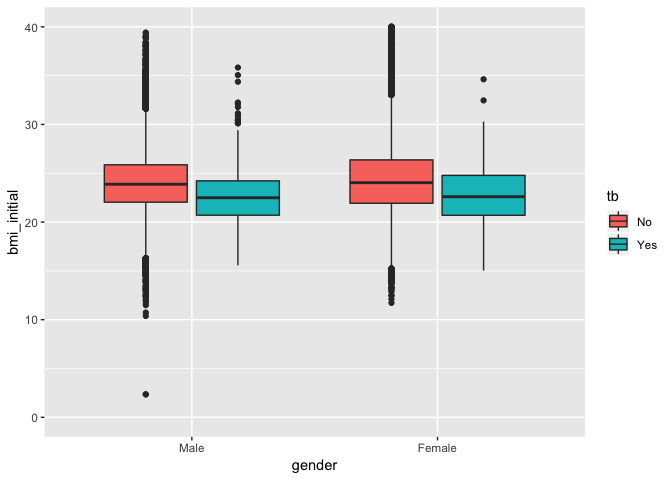
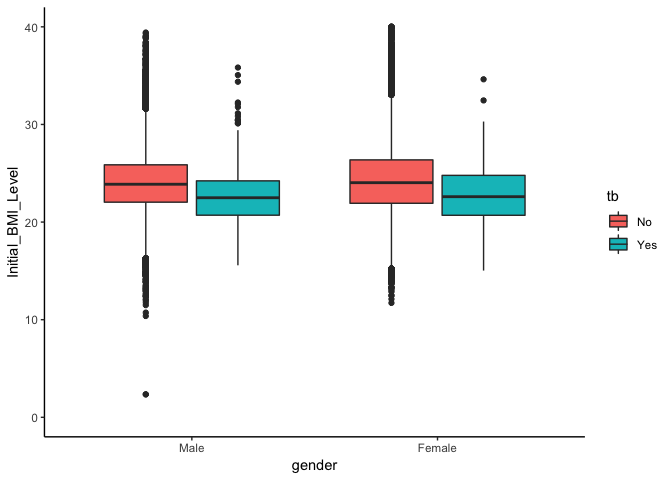
graphs theme standardized

diff --git a/Final_Report.md b/Final_Report.md
@@ -225,6 +225,7 @@ df_combine%>%
     y = "The estimated ORs and CIs"
   ) +
   theme(axis.text.x = element_text(angle = 45, hjust = 1)) +
+  theme_bw()+
   scale_y_continuous(limits=c(0, 4))
 ```
 
@@ -240,6 +241,9 @@ Visualizing the gender and initial\_BMI by TB ststus.
 df_combine %>% 
   ggplot(aes(x = gender, y = bmi_initial, fill = tb)) +
   geom_boxplot() +
+  ylab('Initial_BMI_Level')+
+  xlab('gender')+
+  theme_classic()+
   scale_y_continuous(limits=c(0, 40))
 ```
 
@@ -294,6 +298,7 @@ ggplot(df_complication, aes(x = complications, y = dmage, hue = gender)) +
   stat_summary(fun.y = median, geom = "point", color = "black", size =3)+
   xlab('Number of Complications')+
   ylab('Age')+
+  theme_classic()+
   ggtitle('The Violin Plot of Age and Complications by Gender')
 ```
 
